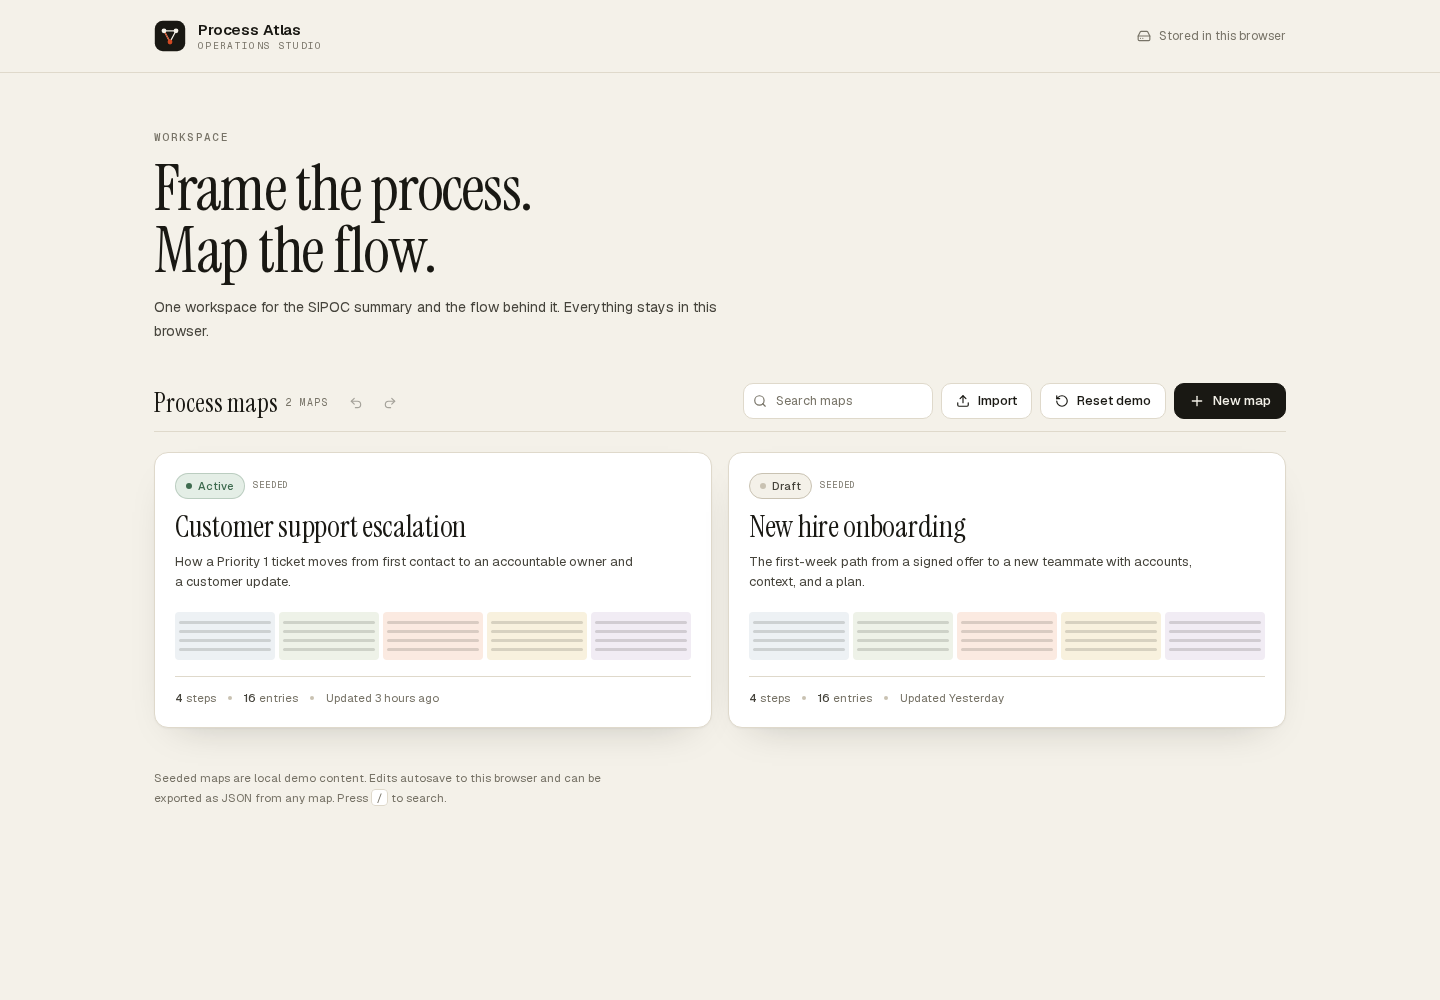
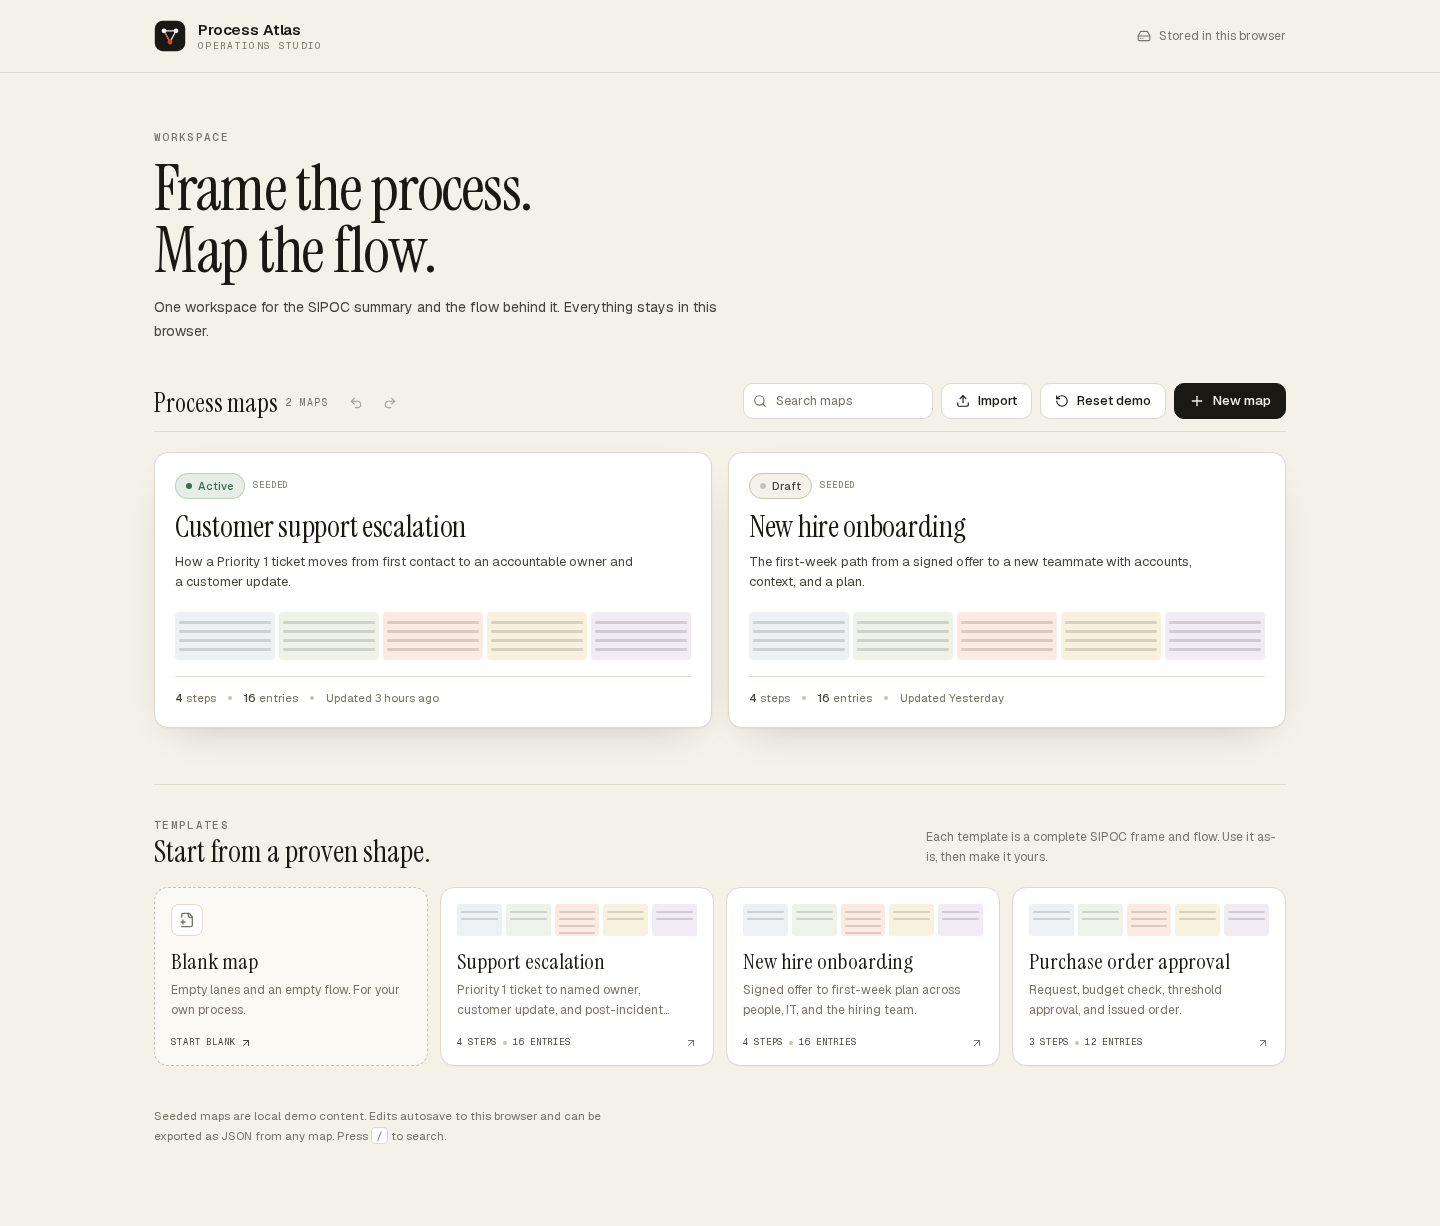
feat: surface templates on the workspace dashboard

diff --git a/src/components/dashboard/template-gallery.tsx b/src/components/dashboard/template-gallery.tsx
@@ -1,0 +1,113 @@
+"use client";
+
+import { ArrowUpRight, FilePlus2 } from "lucide-react";
+import { MAP_TEMPLATES } from "@/domain/templates";
+import { mapStats } from "@/domain/operations";
+import { cn } from "@/lib/cn";
+
+const TINTS = [
+  "bg-suppliers-tint",
+  "bg-inputs-tint",
+  "bg-process-tint",
+  "bg-outputs-tint",
+  "bg-customers-tint",
+];
+
+function TemplatePreview({ steps }: { steps: number }) {
+  return (
+    <span className="flex h-8 items-end gap-1" aria-hidden="true">
+      {TINTS.map((tint, index) => (
+        <span
+          key={tint}
+          className={cn("relative h-full flex-1 overflow-hidden rounded-[3px]", tint)}
+        >
+          {Array.from({ length: index === 2 ? Math.min(Math.max(steps, 1), 4) : 2 }).map(
+            (_, line) => (
+              <span
+                key={line}
+                className="absolute left-1 right-1 h-[2px] rounded-full bg-ink/15"
+                style={{ top: `${7 + line * 7}px` }}
+              />
+            ),
+          )}
+        </span>
+      ))}
+    </span>
+  );
+}
+
+export function TemplateGallery({
+  onUseTemplate,
+}: {
+  onUseTemplate: (templateId: string) => void;
+}) {
+  return (
+    <section className="mt-14 border-t border-line pt-8" aria-labelledby="templates-heading">
+      <div className="flex flex-wrap items-end justify-between gap-3">
+        <div>
+          <p className="eyebrow">Templates</p>
+          <h2
+            id="templates-heading"
+            className="mt-1 font-display text-[30px] leading-none text-ink"
+          >
+            Start from a proven shape.
+          </h2>
+        </div>
+        <p className="max-w-[40ch] text-[12px] leading-5 text-muted">
+          Each template is a complete SIPOC frame and flow. Use it as-is, then make it yours.
+        </p>
+      </div>
+
+      <div className="mt-5 grid gap-3 sm:grid-cols-2 xl:grid-cols-4">
+        <button
+          type="button"
+          onClick={() => onUseTemplate("blank")}
+          aria-label="Start a blank map"
+          className="group flex min-h-[168px] flex-col rounded-card border border-dashed border-line-strong bg-paper-raised p-4 text-left transition-[border-color,background-color,transform] duration-150 hover:-translate-y-0.5 hover:border-ink/30 hover:bg-surface focus-visible:outline-2 focus-visible:outline-offset-2 focus-visible:outline-accent"
+        >
+          <span className="inline-flex h-8 w-8 items-center justify-center rounded-[8px] border border-line bg-surface text-muted">
+            <FilePlus2 className="h-4 w-4" aria-hidden="true" />
+          </span>
+          <span className="mt-3 font-display text-[22px] leading-tight text-ink">Blank map</span>
+          <span className="mt-1 text-[12px] leading-5 text-muted">
+            Empty lanes and an empty flow. For your own process.
+          </span>
+          <span className="mt-auto inline-flex items-center gap-1 pt-4 font-mono text-[9px] uppercase tracking-[0.1em] text-ink-soft">
+            Start blank
+            <ArrowUpRight className="h-3 w-3" aria-hidden="true" />
+          </span>
+        </button>
+
+        {MAP_TEMPLATES.map((template) => {
+          const stats = mapStats(template.document);
+          return (
+            <button
+              key={template.id}
+              type="button"
+              onClick={() => onUseTemplate(template.id)}
+              aria-label={`Use ${template.name} template`}
+              className="group flex min-h-[168px] flex-col rounded-card border border-line bg-surface p-4 text-left shadow-card transition-[border-color,box-shadow,transform] duration-150 hover:-translate-y-0.5 hover:border-line-strong hover:shadow-soft focus-visible:outline-2 focus-visible:outline-offset-2 focus-visible:outline-accent"
+            >
+              <TemplatePreview steps={stats.steps} />
+              <span className="mt-3 font-display text-[22px] leading-tight text-ink">
+                {template.name}
+              </span>
+              <span className="mt-1 line-clamp-2 text-[12px] leading-5 text-muted">
+                {template.summary}
+              </span>
+              <span className="mt-auto flex items-center gap-1.5 pt-4 font-mono text-[9px] uppercase tracking-[0.08em] text-ink-soft">
+                {stats.steps} steps
+                <span className="h-1 w-1 rounded-full bg-line-strong" aria-hidden="true" />
+                {stats.entries} entries
+                <ArrowUpRight
+                  className="ml-auto h-3 w-3 text-muted transition-colors group-hover:text-ink"
+                  aria-hidden="true"
+                />
+              </span>
+            </button>
+          );
+        })}
+      </div>
+    </section>
+  );
+}

diff --git a/src/components/dashboard/dashboard.tsx b/src/components/dashboard/dashboard.tsx
@@ -13,6 +13,7 @@ import type { ProcessMap } from "@/domain/types";
 import { MapCard } from "./map-card";
 import { NewMapDialog } from "./new-map-dialog";
 import { ResetDemoDialog } from "./reset-demo-dialog";
+import { TemplateGallery } from "./template-gallery";
 
 export function Dashboard() {
   const maps = useWorkspace((state) => state.maps);
@@ -23,6 +24,7 @@ export function Dashboard() {
   const canRedo = useWorkspace((state) => state.future.length > 0);
   const [query, setQuery] = React.useState("");
   const [newMapOpen, setNewMapOpen] = React.useState(false);
+  const [newMapTemplate, setNewMapTemplate] = React.useState<string | null>(null);
   const [resetOpen, setResetOpen] = React.useState(false);
   const [deleteTarget, setDeleteTarget] = React.useState<ProcessMap | null>(null);
   const searchRef = React.useRef<HTMLInputElement>(null);
@@ -62,6 +64,11 @@ export function Dashboard() {
     if (!copyId) return;
     setQuery("");
     toast("Map duplicated.");
+  };
+
+  const openNewMap = (templateId: string | null = null) => {
+    setNewMapTemplate(templateId);
+    setNewMapOpen(true);
   };
 
   return (
@@ -150,7 +157,7 @@ export function Dashboard() {
               <RotateCcw className="h-3.5 w-3.5" aria-hidden="true" />
               <span className="hidden sm:inline">Reset demo</span>
             </Button>
-            <Button variant="primary" onClick={() => setNewMapOpen(true)}>
+            <Button variant="primary" onClick={() => openNewMap()}>
               <Plus className="h-4 w-4" aria-hidden="true" />
               New map
             </Button>
@@ -167,7 +174,7 @@ export function Dashboard() {
           </p>
           <div className="mt-5 flex flex-wrap items-center justify-center gap-2">
             <Button onClick={() => setResetOpen(true)}>Restore demo maps</Button>
-            <Button variant="primary" onClick={() => setNewMapOpen(true)}>
+            <Button variant="primary" onClick={() => openNewMap()}>
               <Plus className="h-4 w-4" aria-hidden="true" />
               Create a map
             </Button>
@@ -198,13 +205,22 @@ export function Dashboard() {
         </div>
       )}
 
+      <TemplateGallery onUseTemplate={(templateId) => openNewMap(templateId)} />
+
       <p className="mt-10 max-w-[64ch] text-[11.5px] leading-5 text-muted">
         Seeded maps are local demo content. Edits autosave to this browser and can be exported as
         JSON from any map. Press{" "}
         <kbd className="rounded border border-line bg-surface px-1 font-mono">/</kbd> to search.
       </p>
 
-      {newMapOpen ? <NewMapDialog open={newMapOpen} onOpenChange={setNewMapOpen} /> : null}
+      {newMapOpen ? (
+        <NewMapDialog
+          key={newMapTemplate ?? "blank"}
+          open={newMapOpen}
+          onOpenChange={setNewMapOpen}
+          initialTemplateId={newMapTemplate === "blank" ? null : newMapTemplate}
+        />
+      ) : null}
       {resetOpen ? <ResetDemoDialog open={resetOpen} onOpenChange={setResetOpen} /> : null}
       {deleteTarget ? (
         <DeleteMapDialog

diff --git a/src/components/dashboard/new-map-dialog.tsx b/src/components/dashboard/new-map-dialog.tsx
@@ -36,16 +36,21 @@ const TINT_BARS = [
 export function NewMapDialog({
   open,
   onOpenChange,
+  initialTemplateId = null,
 }: {
   open: boolean;
   onOpenChange: (open: boolean) => void;
+  initialTemplateId?: string | null;
 }) {
   const router = useRouter();
   const createMap = useWorkspace((state) => state.createMap);
-  const [selection, setSelection] = React.useState("blank");
-  const [title, setTitle] = React.useState("");
+  const initialTemplate = initialTemplateId
+    ? MAP_TEMPLATES.find((template) => template.id === initialTemplateId)
+    : undefined;
+  const [selection, setSelection] = React.useState(initialTemplate?.id ?? "blank");
+  const [title, setTitle] = React.useState(initialTemplate?.name ?? "");
   const [description, setDescription] = React.useState("");
-  const [suggestedTitle, setSuggestedTitle] = React.useState("");
+  const [suggestedTitle, setSuggestedTitle] = React.useState(initialTemplate?.name ?? "");
   const [error, setError] = React.useState<string | null>(null);
 
   const choose = (id: string, name: string) => {

diff --git a/src/components/dashboard/dashboard.test.tsx b/src/components/dashboard/dashboard.test.tsx
@@ -72,4 +72,19 @@ describe("dashboard search", () => {
     ).toBeInTheDocument();
     expect(useWorkspace.getState().maps).toHaveLength(3);
   });
+
+  it("starts a new map from a gallery template with the title prefilled", async () => {
+    const user = userEvent.setup();
+    render(
+      <TooltipProvider>
+        <Dashboard />
+      </TooltipProvider>,
+    );
+
+    await user.click(screen.getByRole("button", { name: "Use Purchase order approval template" }));
+
+    expect(screen.getByRole("heading", { name: "New map" })).toBeInTheDocument();
+    expect(screen.getByLabelText("Title")).toHaveValue("Purchase order approval");
+    expect(screen.getByRole("radio", { name: /Purchase order approval/ })).toBeChecked();
+  });
 });

diff --git a/README.md b/README.md
@@ -13,7 +13,7 @@ The workspace opens with two complete seeded maps:
 - **Customer support escalation** — a Priority 1 ticket from first contact to customer update and root-cause review.
 - **New hire onboarding** — a signed offer through first-week orientation and a 30-day plan.
 
-Three templates are available for new maps: support escalation, new hire onboarding, and purchase order approval, plus a blank option.
+Three templates are available for new maps: support escalation, new hire onboarding, and purchase order approval, plus a blank option. They are available from the dashboard gallery and the New map dialog.
 
 ## Two views, one document
 
@@ -39,6 +39,7 @@ Canvas position and SIPOC order are deliberately independent. Dragging a node ch
 ## What is in the product
 
 - **Workspace** — seeded maps, search across titles and descriptions, recent-first order, status pills, step and entry counts, duplicate and confirmed delete.
+- **Template gallery** — three complete starting points plus a blank map, available directly from the dashboard.
 - **SIPOC editing** — inline add, label and detail editing with Enter or blur to commit and Escape to cancel, drag reordering, arrow-key reordering, deliberate delete, contextual examples in empty lanes.
 - **Process steps** — add from the SIPOC Process lane, edit title, description, owner, system, and duration, reorder without moving the canvas, jump to the node in the flow.
 - **Flow canvas** — pan, zoom, fit view, minimap, custom start, step, decision, and end nodes, labelled flow and exception edges, connect by handle, delete with clear feedback, empty-flow starting action.
